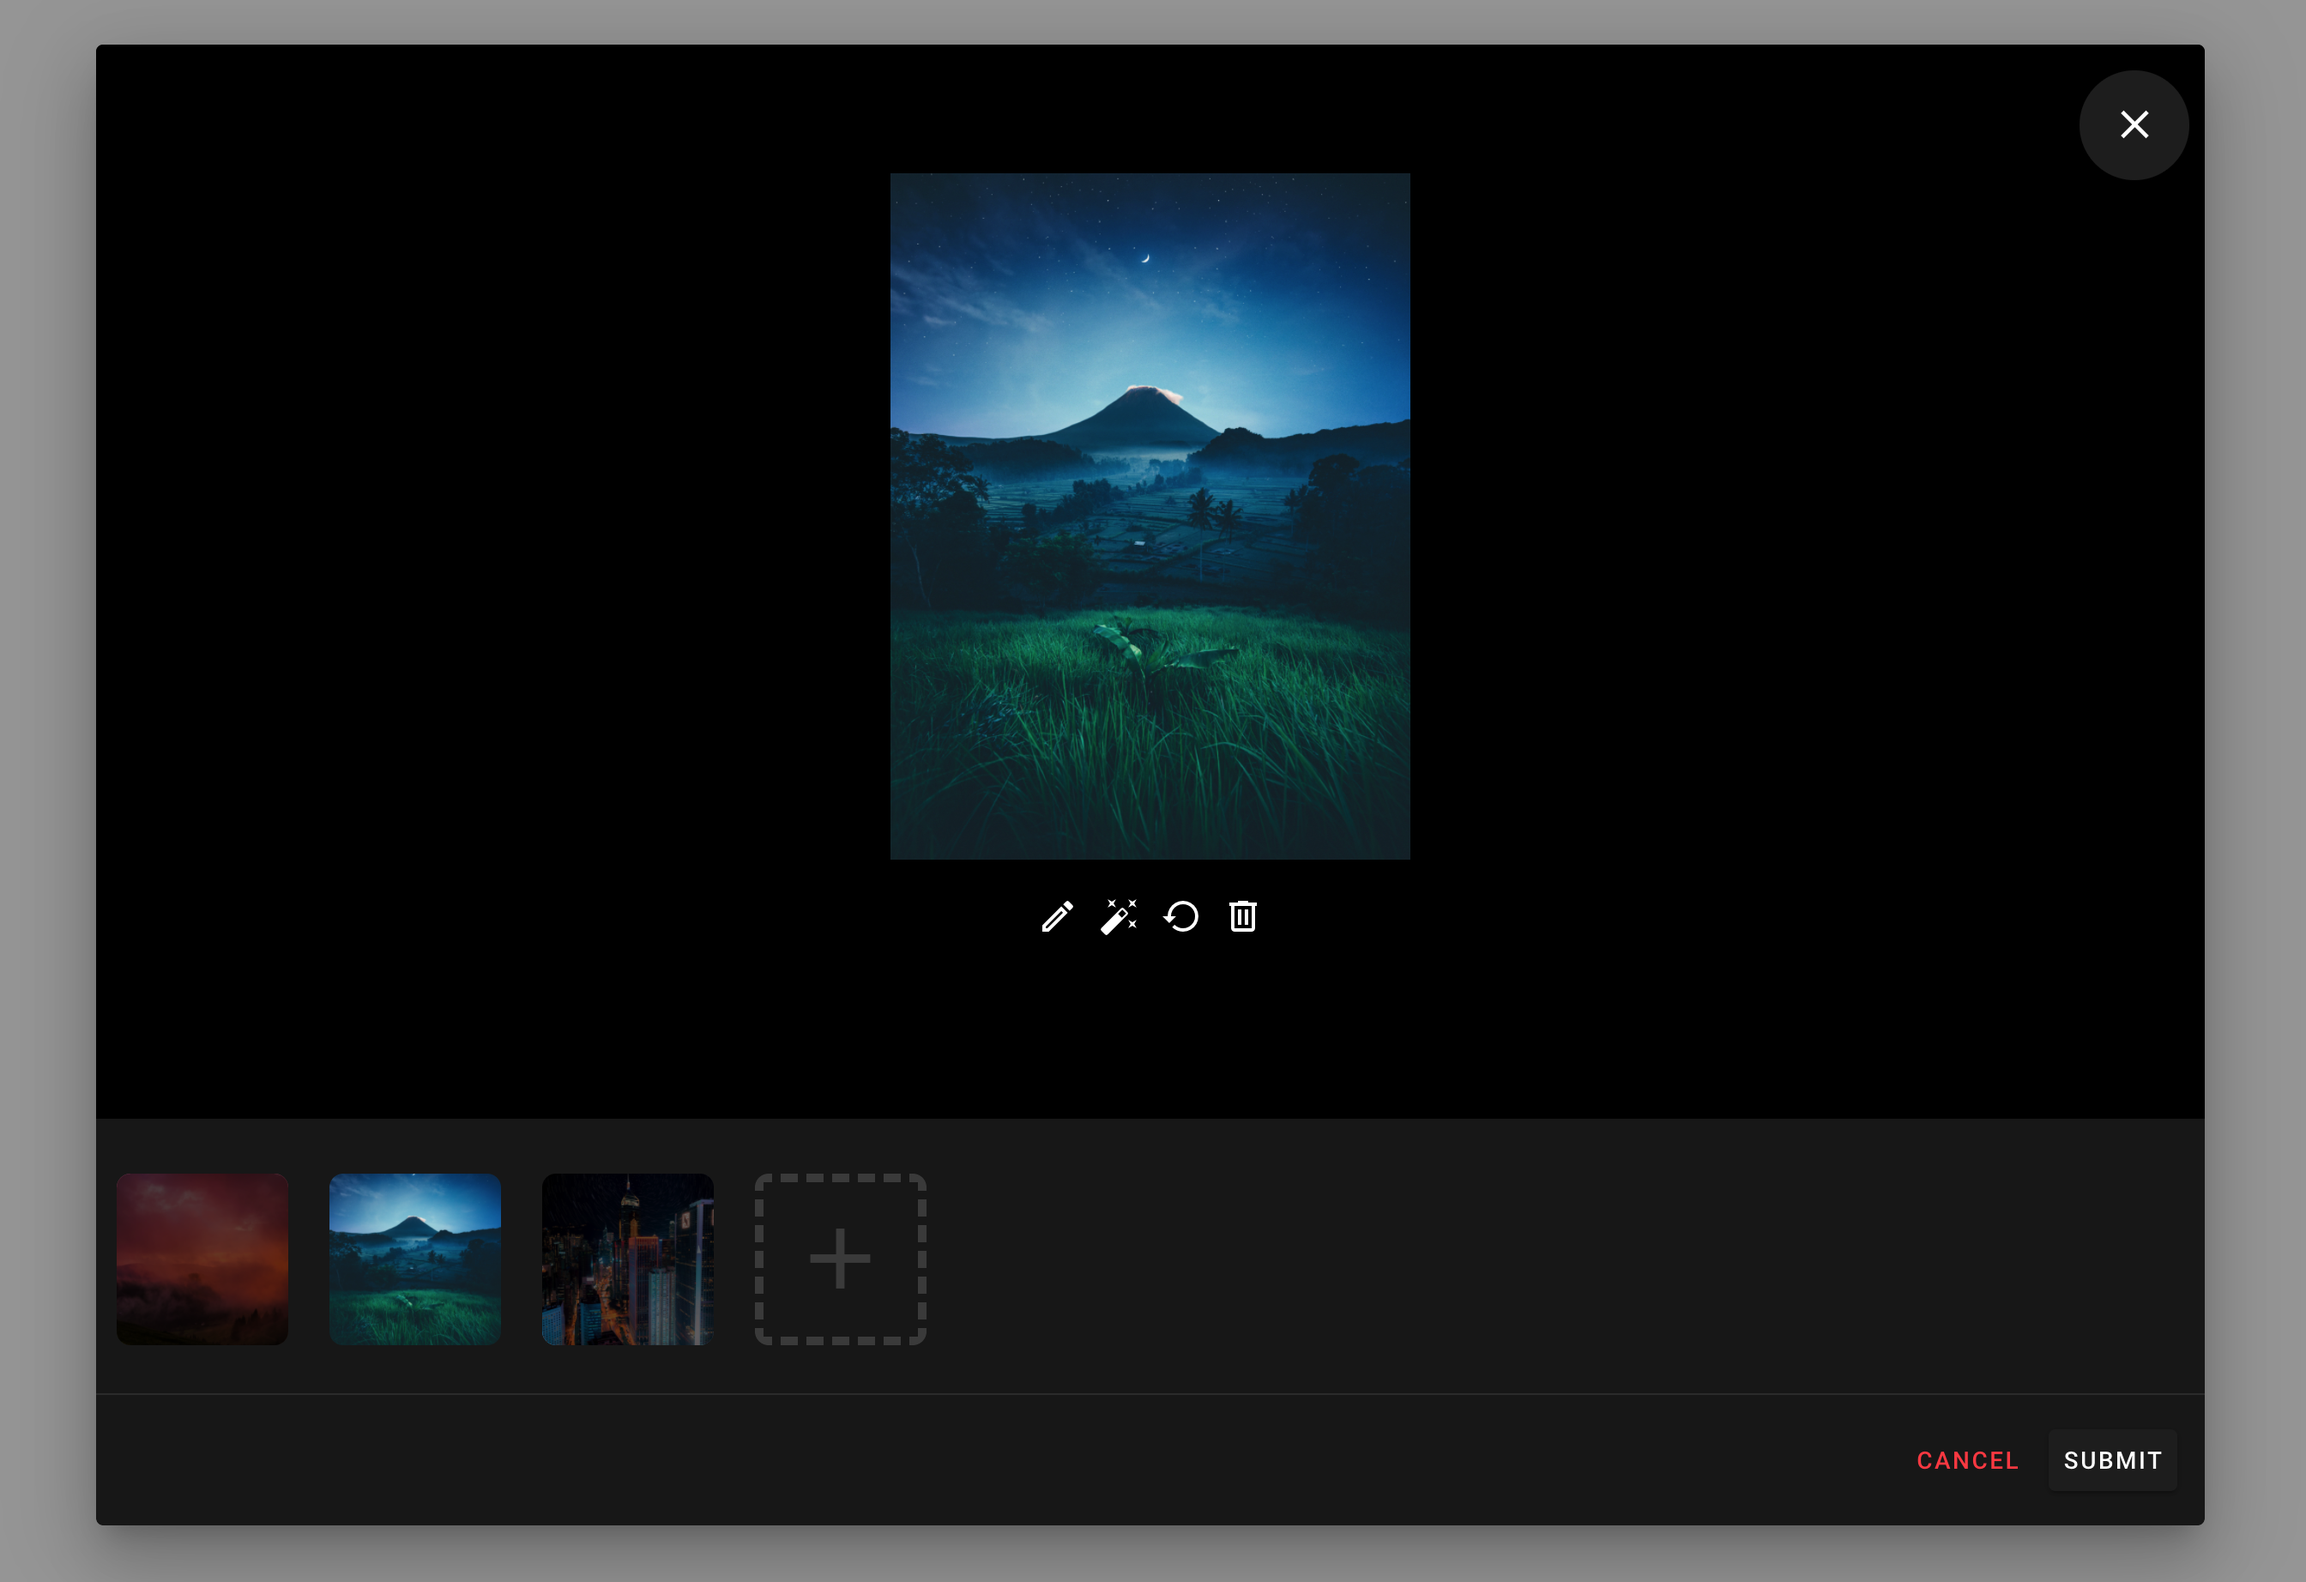
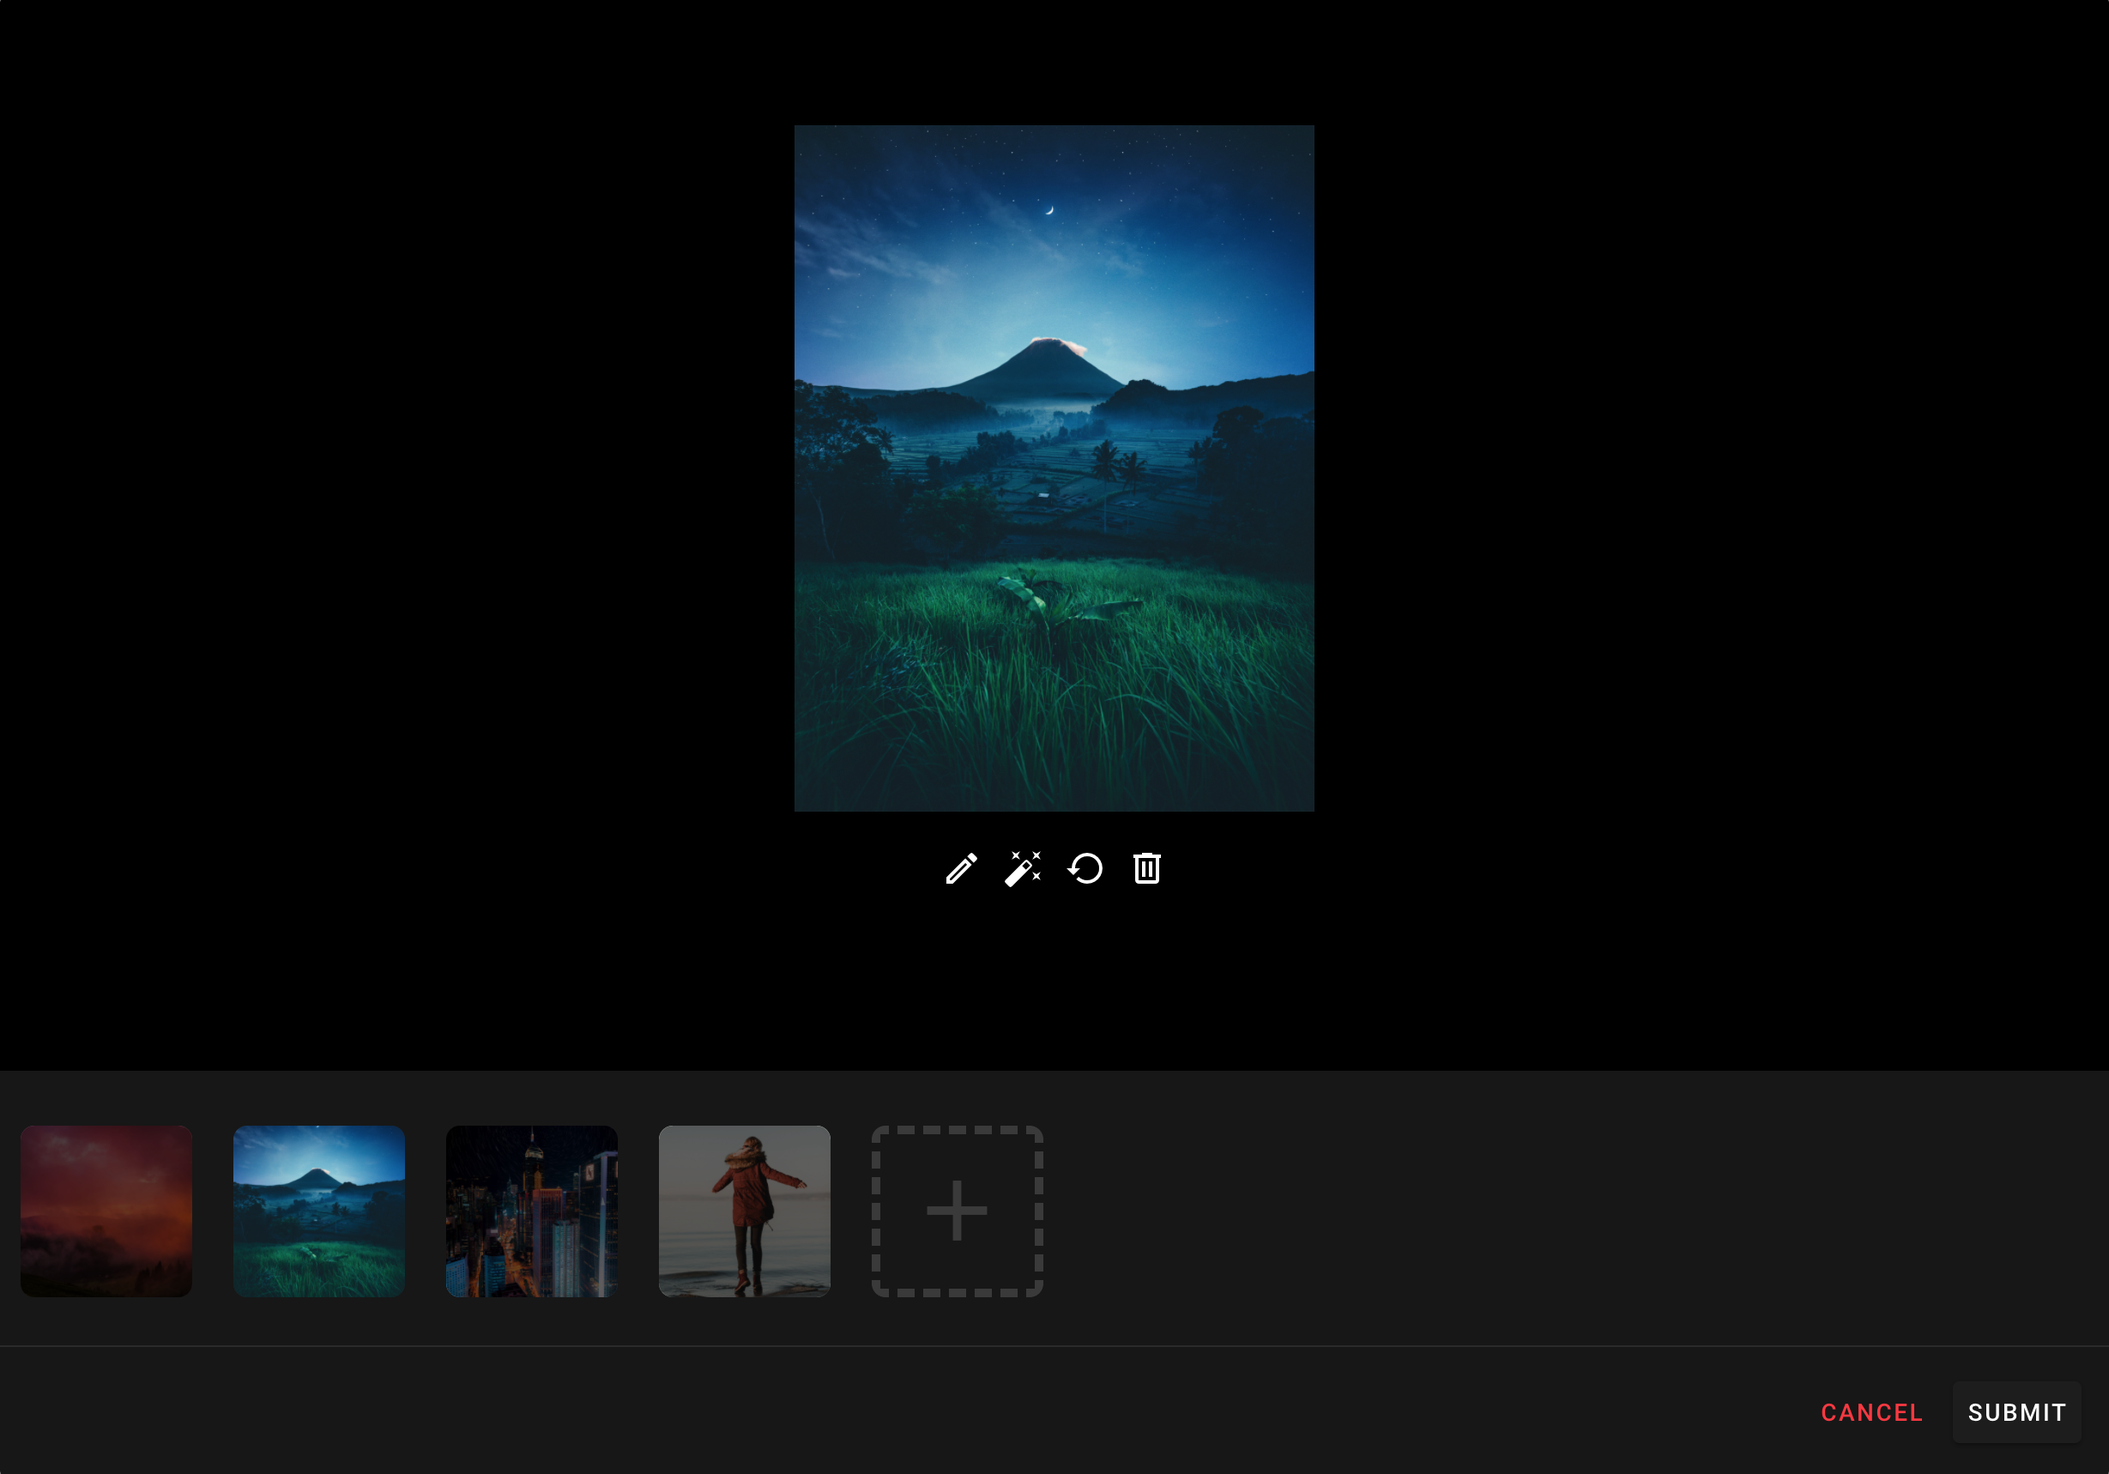
init

diff --git a/src/components/GalleryUploader.vue b/src/components/GalleryUploader.vue
@@ -18,17 +18,17 @@
 
     <v-dialog v-model="dialog" width="80%" persistent>
       <v-card dark class="overflow-hidden">
-        <v-btn
-          class="mx-2 pa-2"
-          fab
-          dark
-          large
-          absolute
-          style="top:15px;right:1px"
-          @click="close"
-        >
-          <v-icon dark>mdi-close</v-icon>
-        </v-btn>
+        <!--        <v-btn-->
+        <!--          class="mx-2 pa-2"-->
+        <!--          fab-->
+        <!--          dark-->
+        <!--          large-->
+        <!--          absolute-->
+        <!--          style="top:15px;right:1px"-->
+        <!--          @click="close"-->
+        <!--        >-->
+        <!--          <v-icon dark>mdi-close</v-icon>-->
+        <!--        </v-btn>-->
         <image-editor
           @image-edited="imageEdited"
           @image-removed="imageRemoved"

diff --git a/README.md b/README.md
@@ -23,8 +23,21 @@ methods:{
     }
 
 ```
-Screenshots
+```
+
+## Screenshots
+```
 
 ![Show Case](https://github.com/osamaegy/vuetify-gallery-uploader/blob/origin/src/assets/showcase-1.png)
+
+![Show Case](https://github.com/osamaegy/vuetify-gallery-uploader/blob/origin/src/assets/showcase-2.png)
+
+![Show Case](https://github.com/osamaegy/vuetify-gallery-uploader/blob/origin/src/assets/showcase-3.png)
+
+## License
+
+MIT
+
+
 
 
